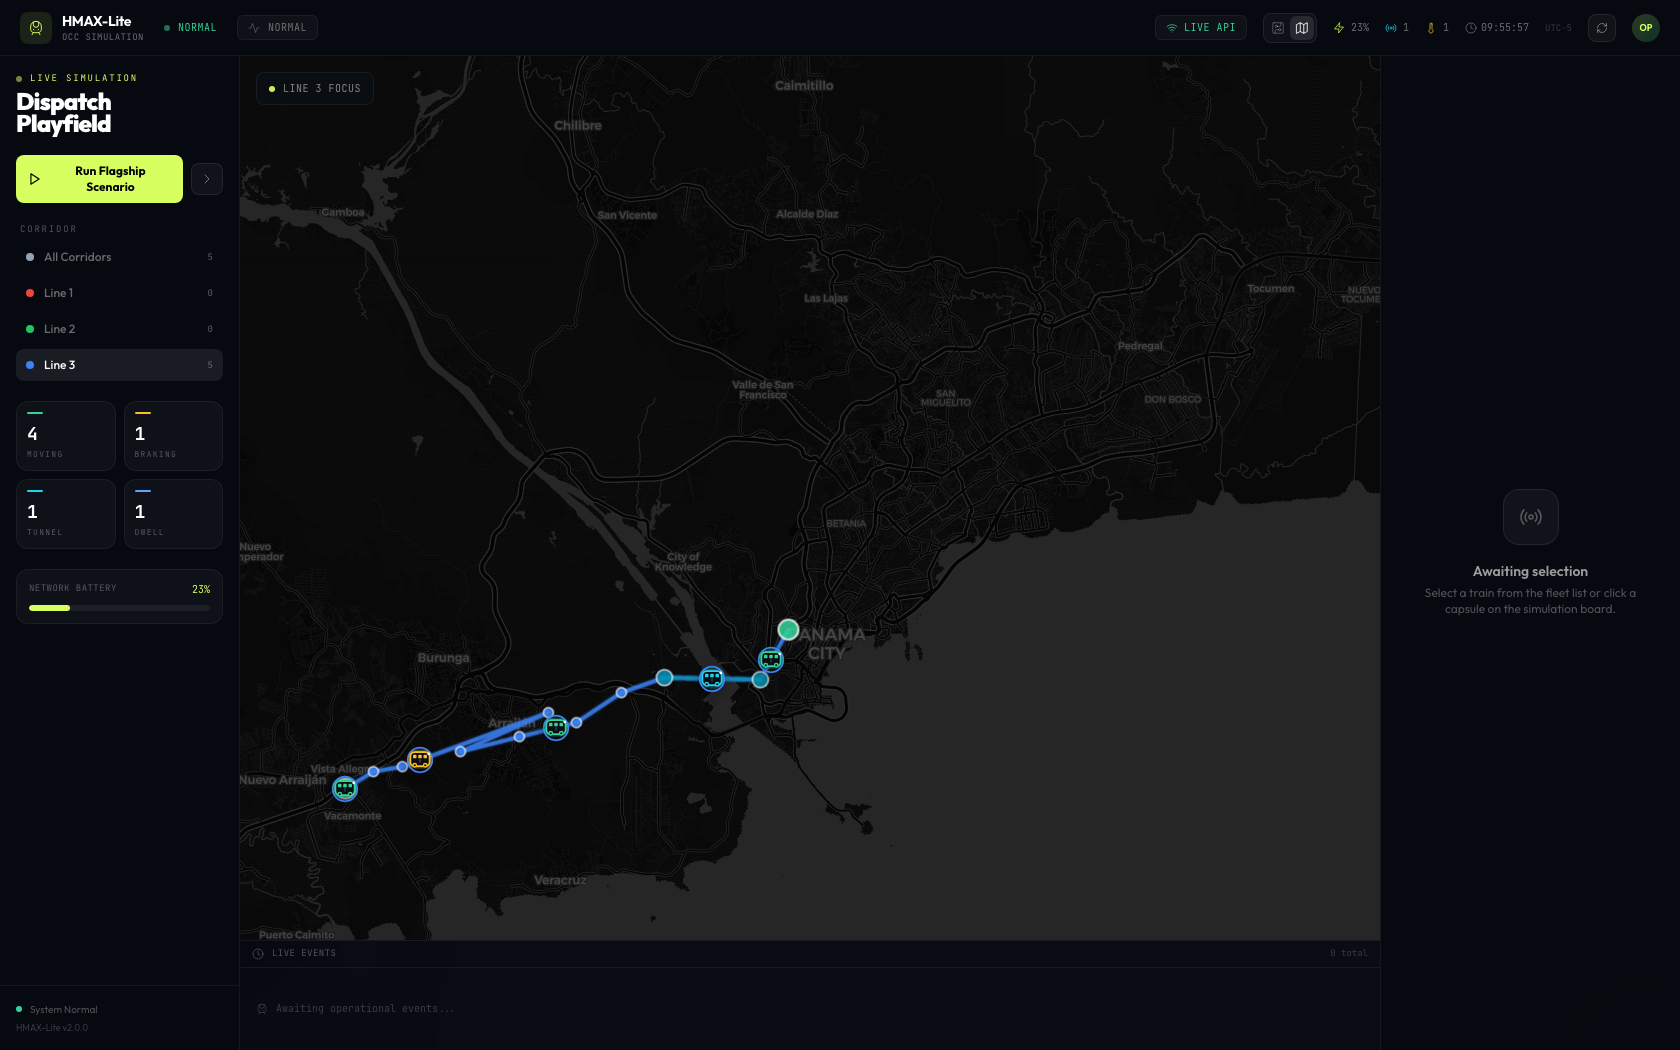
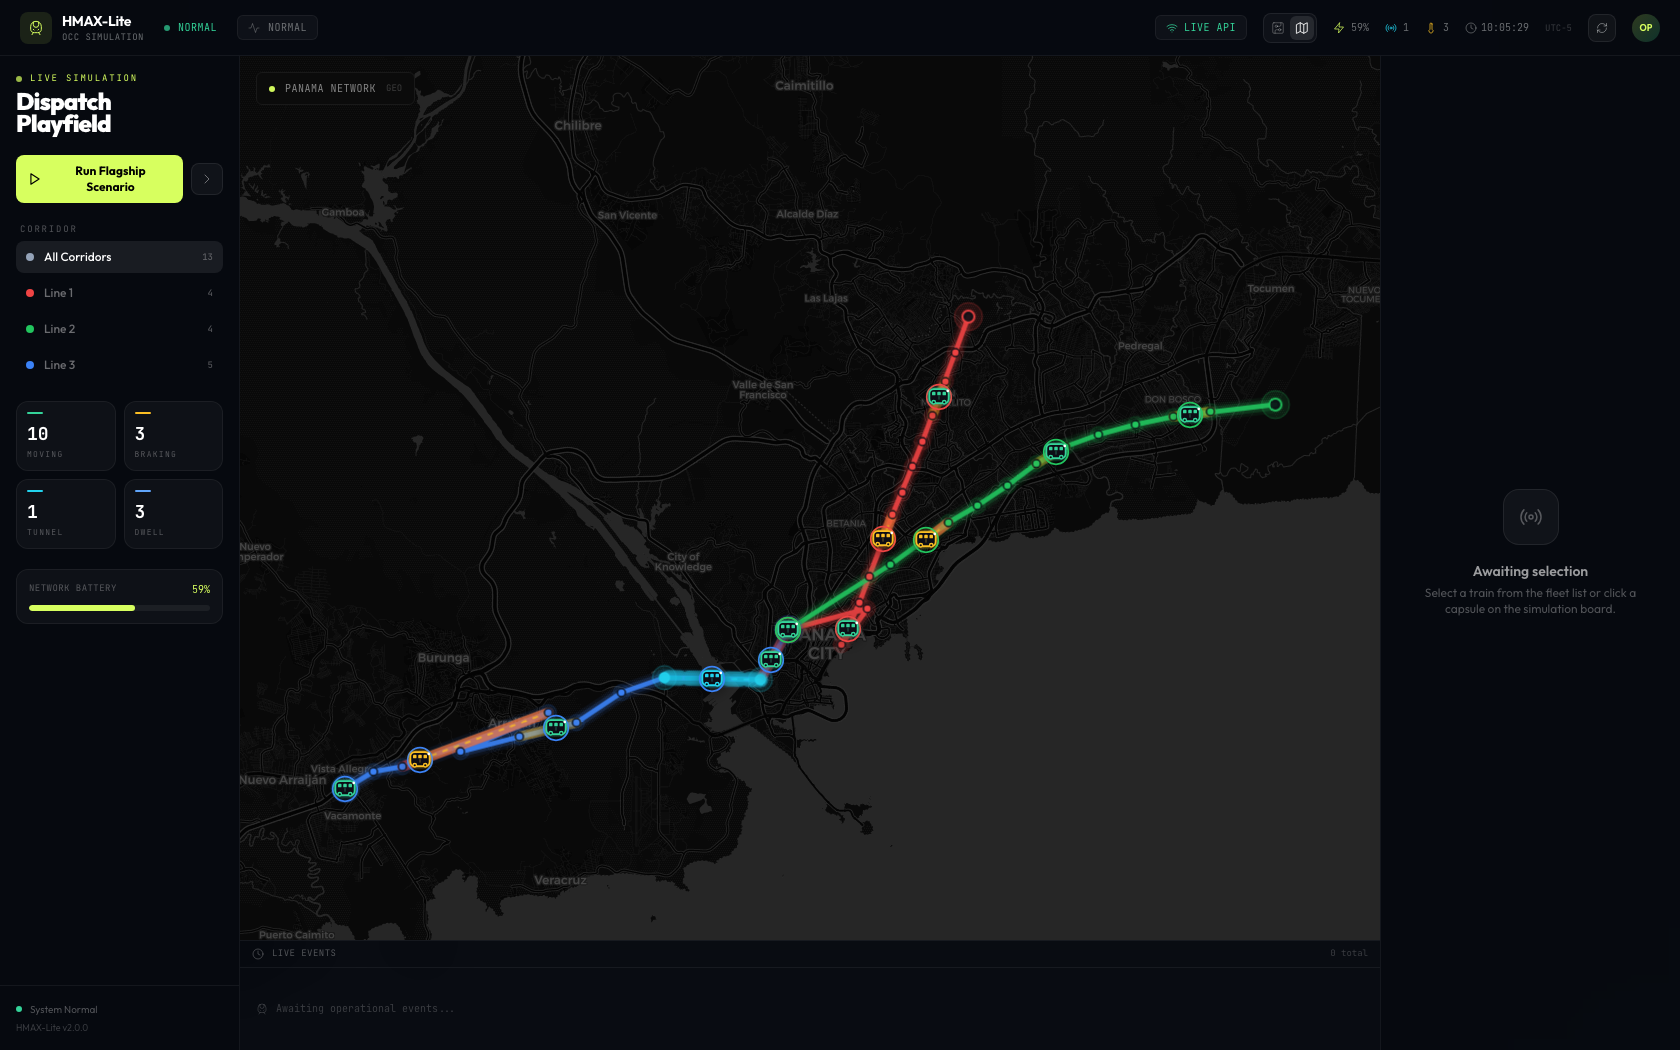
feat: align geographic map with simulation board

diff --git a/hmax-lite/frontend/src/components/Map.tsx b/hmax-lite/frontend/src/components/Map.tsx
@@ -11,6 +11,8 @@ import { useEffect, useMemo } from 'react';
 import type { TrainStatus, Station, MetroLine, LineInfo } from '../types/train';
 import { TrainMarker } from './TrainMarker';
 import { LINE_CONFIG } from '../types/train';
+import { deriveSignalBlocks } from '../simulation/deriveSignalBlocks';
+import type { SignalBlock } from '../simulation/deriveSignalBlocks';
 
 const MAP_CENTER: [number, number] = [8.98, -79.52];
 const MAP_ZOOM = 11;
@@ -20,8 +22,8 @@ const TILE_ATTRIBUTION = '&copy; <a href="https://www.openstreetmap.org/copyrigh
 
 const getLineStyle = (line: MetroLine) => ({
   color: LINE_CONFIG[line].color,
-  weight: 4,
-  opacity: 0.85,
+  weight: 5,
+  opacity: 0.9,
   lineCap: 'round' as const,
   lineJoin: 'round' as const,
 });
@@ -35,6 +37,13 @@ const TUNNEL_LINE_STYLE = {
   lineJoin: 'round' as const,
 };
 
+function getBlockColor(status: SignalBlock['status']): string {
+  if (status === 'occupied') return '#ef4444';
+  if (status === 'approach') return '#fbbf24';
+  if (status === 'restricted') return '#22d3ee';
+  return '#34d399';
+}
+
 interface MapProps {
   trains: TrainStatus[];
   stations: Station[];
@@ -46,6 +55,8 @@ interface MapProps {
   selectedTrainId: string | null;
   onSelectTrain: (trainId: string) => void;
 }
+
+type StationLookup = globalThis.Map<string, Station>;
 
 function MapBoundsHandler({ allRouteCoordinates }: { allRouteCoordinates: Record<MetroLine, [number, number][]> }) {
   const map = useMap();
@@ -85,17 +96,29 @@ function StationMarker({
   const lineColor = LINE_CONFIG[line].color;
 
   return (
-    <CircleMarker
-      center={[station.lat, station.lng]}
-      radius={isTerminal ? 10 : isTunnel ? 8 : 5}
-      pathOptions={{
-        fillColor: isTunnel ? '#0891b2' : isTerminal ? '#34d399' : lineColor,
-        color: '#ffffff',
-        weight: isTerminal ? 2 : 1.5,
-        opacity: 0.8,
-        fillOpacity: 0.85,
-      }}
-    >
+    <>
+      <CircleMarker
+        center={[station.lat, station.lng]}
+        radius={isTerminal ? 14 : isTunnel ? 12 : 8}
+        pathOptions={{
+          fillColor: isTunnel ? '#22d3ee' : lineColor,
+          color: isTunnel ? '#22d3ee' : lineColor,
+          weight: 1,
+          opacity: isTerminal || isTunnel ? 0.32 : 0.16,
+          fillOpacity: isTerminal || isTunnel ? 0.12 : 0.06,
+        }}
+      />
+      <CircleMarker
+        center={[station.lat, station.lng]}
+        radius={isTerminal ? 6 : isTunnel ? 5 : 3.5}
+        pathOptions={{
+          fillColor: isTunnel ? '#22d3ee' : isTerminal ? '#0a0e14' : lineColor,
+          color: isTerminal ? lineColor : isTunnel ? '#22d3ee' : '#0a0e14',
+          weight: isTerminal ? 2 : 1.5,
+          opacity: 0.95,
+          fillOpacity: 0.9,
+        }}
+      >
       <Popup className="station-popup">
         <div className="min-w-[200px] rounded-xl border border-white/[0.1] bg-[#0a0e14]/95 p-4 shadow-2xl backdrop-blur-xl">
           <div className="mb-2 flex items-center gap-2">
@@ -124,7 +147,8 @@ function StationMarker({
           </div>
         </div>
       </Popup>
-    </CircleMarker>
+      </CircleMarker>
+    </>
   );
 }
 
@@ -149,8 +173,16 @@ function RouteLine({ line, coordinates }: { line: MetroLine; coordinates: [numbe
             positions={coordinates}
             pathOptions={{
               ...lineStyle,
-              weight: lineStyle.weight + 3,
-              opacity: 0.15,
+              weight: lineStyle.weight + 12,
+              opacity: 0.08,
+            }}
+          />
+          <Polyline
+            positions={coordinates}
+            pathOptions={{
+              ...lineStyle,
+              weight: lineStyle.weight + 6,
+              opacity: 0.18,
             }}
           />
           <Polyline positions={coordinates} pathOptions={lineStyle} />
@@ -161,8 +193,16 @@ function RouteLine({ line, coordinates }: { line: MetroLine; coordinates: [numbe
             positions={normalRoute}
             pathOptions={{
               ...lineStyle,
-              weight: lineStyle.weight + 3,
-              opacity: 0.15,
+              weight: lineStyle.weight + 12,
+              opacity: 0.08,
+            }}
+          />
+          <Polyline
+            positions={normalRoute}
+            pathOptions={{
+              ...lineStyle,
+              weight: lineStyle.weight + 6,
+              opacity: 0.18,
             }}
           />
           <Polyline positions={normalRoute} pathOptions={lineStyle} />
@@ -172,8 +212,16 @@ function RouteLine({ line, coordinates }: { line: MetroLine; coordinates: [numbe
                 positions={tunnelRoute}
                 pathOptions={{
                   ...TUNNEL_LINE_STYLE,
-                  weight: TUNNEL_LINE_STYLE.weight + 3,
-                  opacity: 0.15,
+                  weight: TUNNEL_LINE_STYLE.weight + 14,
+                  opacity: 0.12,
+                }}
+              />
+              <Polyline
+                positions={tunnelRoute}
+                pathOptions={{
+                  ...TUNNEL_LINE_STYLE,
+                  weight: TUNNEL_LINE_STYLE.weight + 7,
+                  opacity: 0.28,
                 }}
               />
               <Polyline positions={tunnelRoute} pathOptions={TUNNEL_LINE_STYLE} />
@@ -181,6 +229,94 @@ function RouteLine({ line, coordinates }: { line: MetroLine; coordinates: [numbe
           )}
         </>
       )}
+    </>
+  );
+}
+
+function SignalBlockLayer({
+  blocks,
+  selectedLine,
+  stationMap,
+}: {
+  blocks: SignalBlock[];
+  selectedLine: MetroLine | 'all';
+  stationMap: StationLookup;
+}) {
+  return (
+    <>
+      {blocks
+        .filter((block) => selectedLine === 'all' || block.line === selectedLine)
+        .map((block) => {
+          const from = stationMap.get(block.fromStationId);
+          const to = stationMap.get(block.toStationId);
+          if (!from || !to) return null;
+
+          const color = getBlockColor(block.status);
+          const positions: [number, number][] = [
+            [from.lat, from.lng],
+            [to.lat, to.lng],
+          ];
+
+          return (
+            <Polyline
+              key={block.id}
+              positions={positions}
+              pathOptions={{
+                color,
+                weight: block.isTunnel ? 15 : 10,
+                opacity: block.status === 'clear' ? 0.06 : 0.28 + block.occupancy * 0.35,
+                lineCap: 'round',
+                lineJoin: 'round',
+                dashArray: block.isTunnel ? '12, 8' : undefined,
+              }}
+            />
+          );
+        })}
+    </>
+  );
+}
+
+function TrainProgressTrail({ train, stationMap }: { train: TrainStatus; stationMap: StationLookup }) {
+  if (train.at_station) return null;
+
+  const currentStation = stationMap.get(train.position.current_station_id);
+  if (!currentStation) return null;
+
+  const color = train.is_in_tunnel
+    ? '#22d3ee'
+    : train.telemetry.b_chop_status
+      ? '#fbbf24'
+      : LINE_CONFIG[train.line].color;
+
+  return (
+    <>
+      <Polyline
+        positions={[
+          [currentStation.lat, currentStation.lng],
+          [train.position.lat, train.position.lng],
+        ]}
+        pathOptions={{
+          color,
+          weight: train.telemetry.b_chop_status ? 10 : 7,
+          opacity: train.telemetry.b_chop_status ? 0.28 : 0.16,
+          lineCap: 'round',
+          lineJoin: 'round',
+        }}
+      />
+      <Polyline
+        positions={[
+          [currentStation.lat, currentStation.lng],
+          [train.position.lat, train.position.lng],
+        ]}
+        pathOptions={{
+          color,
+          weight: 2,
+          opacity: 0.8,
+          dashArray: '4, 8',
+          lineCap: 'round',
+          lineJoin: 'round',
+        }}
+      />
     </>
   );
 }
@@ -206,6 +342,12 @@ export function Map({
   }, [allStations]);
 
   const filteredTrains = selectedLine === 'all' ? trains : trains.filter((t) => t.line === selectedLine);
+  const signalBlocks = useMemo(() => deriveSignalBlocks(trains), [trains]);
+  const stationMap = useMemo(() => {
+    const map = new globalThis.Map<string, Station>();
+    allStations.forEach((station) => map.set(station.id, station));
+    return map;
+  }, [allStations]);
 
   return (
     <div className="relative h-full w-full">
@@ -224,6 +366,12 @@ export function Map({
           : [selectedLine]
         ).map((line) => (
           <RouteLine key={line} line={line} coordinates={allRouteCoordinates[line] || []} />
+        ))}
+
+        <SignalBlockLayer blocks={signalBlocks} selectedLine={selectedLine} stationMap={stationMap} />
+
+        {filteredTrains.map((train) => (
+          <TrainProgressTrail key={`trail-${train.id}`} train={train} stationMap={stationMap} />
         ))}
 
         {(selectedLine === 'all'
@@ -253,22 +401,23 @@ export function Map({
 
       {/* Minimal overlay */}
       <div className="pointer-events-none absolute left-4 top-4 z-[400]">
-        <div className="rounded-lg border border-white/[0.06] bg-[#0a0e14]/70 px-3 py-2 backdrop-blur-xl">
-          <div className="flex items-center gap-2">
+        <div className="rounded-md border border-white/[0.06] bg-[#0a0e14]/78 px-3 py-2 backdrop-blur-xl">
+          <div className="flex items-center gap-2.5">
             <div className="h-1.5 w-1.5 animate-pulse rounded-full bg-[#d7ff5f]" />
             <span className="text-[10px] font-mono uppercase tracking-wider text-white/50">
               {selectedLine === 'all' ? 'Panama network' : `${LINE_CONFIG[selectedLine].label} focus`}
             </span>
+            <span className="text-[9px] font-mono text-white/20">GEO</span>
           </div>
         </div>
       </div>
 
       <div className="pointer-events-none absolute bottom-4 left-4 z-[400]">
-        <div className="rounded-lg border border-white/[0.06] bg-[#0a0e14]/70 px-3 py-2 backdrop-blur-xl">
+        <div className="rounded-md border border-white/[0.06] bg-[#0a0e14]/78 px-3 py-2 backdrop-blur-xl">
           <div className="flex items-center gap-3 text-[10px] font-mono text-white/40">
             <span>{filteredTrains.length} trains</span>
             <span className="text-white/20">|</span>
-            <span>{allStations.length} stations</span>
+            <span>{signalBlocks.filter((block) => selectedLine === 'all' || block.line === selectedLine).length} blocks</span>
           </div>
         </div>
       </div>
